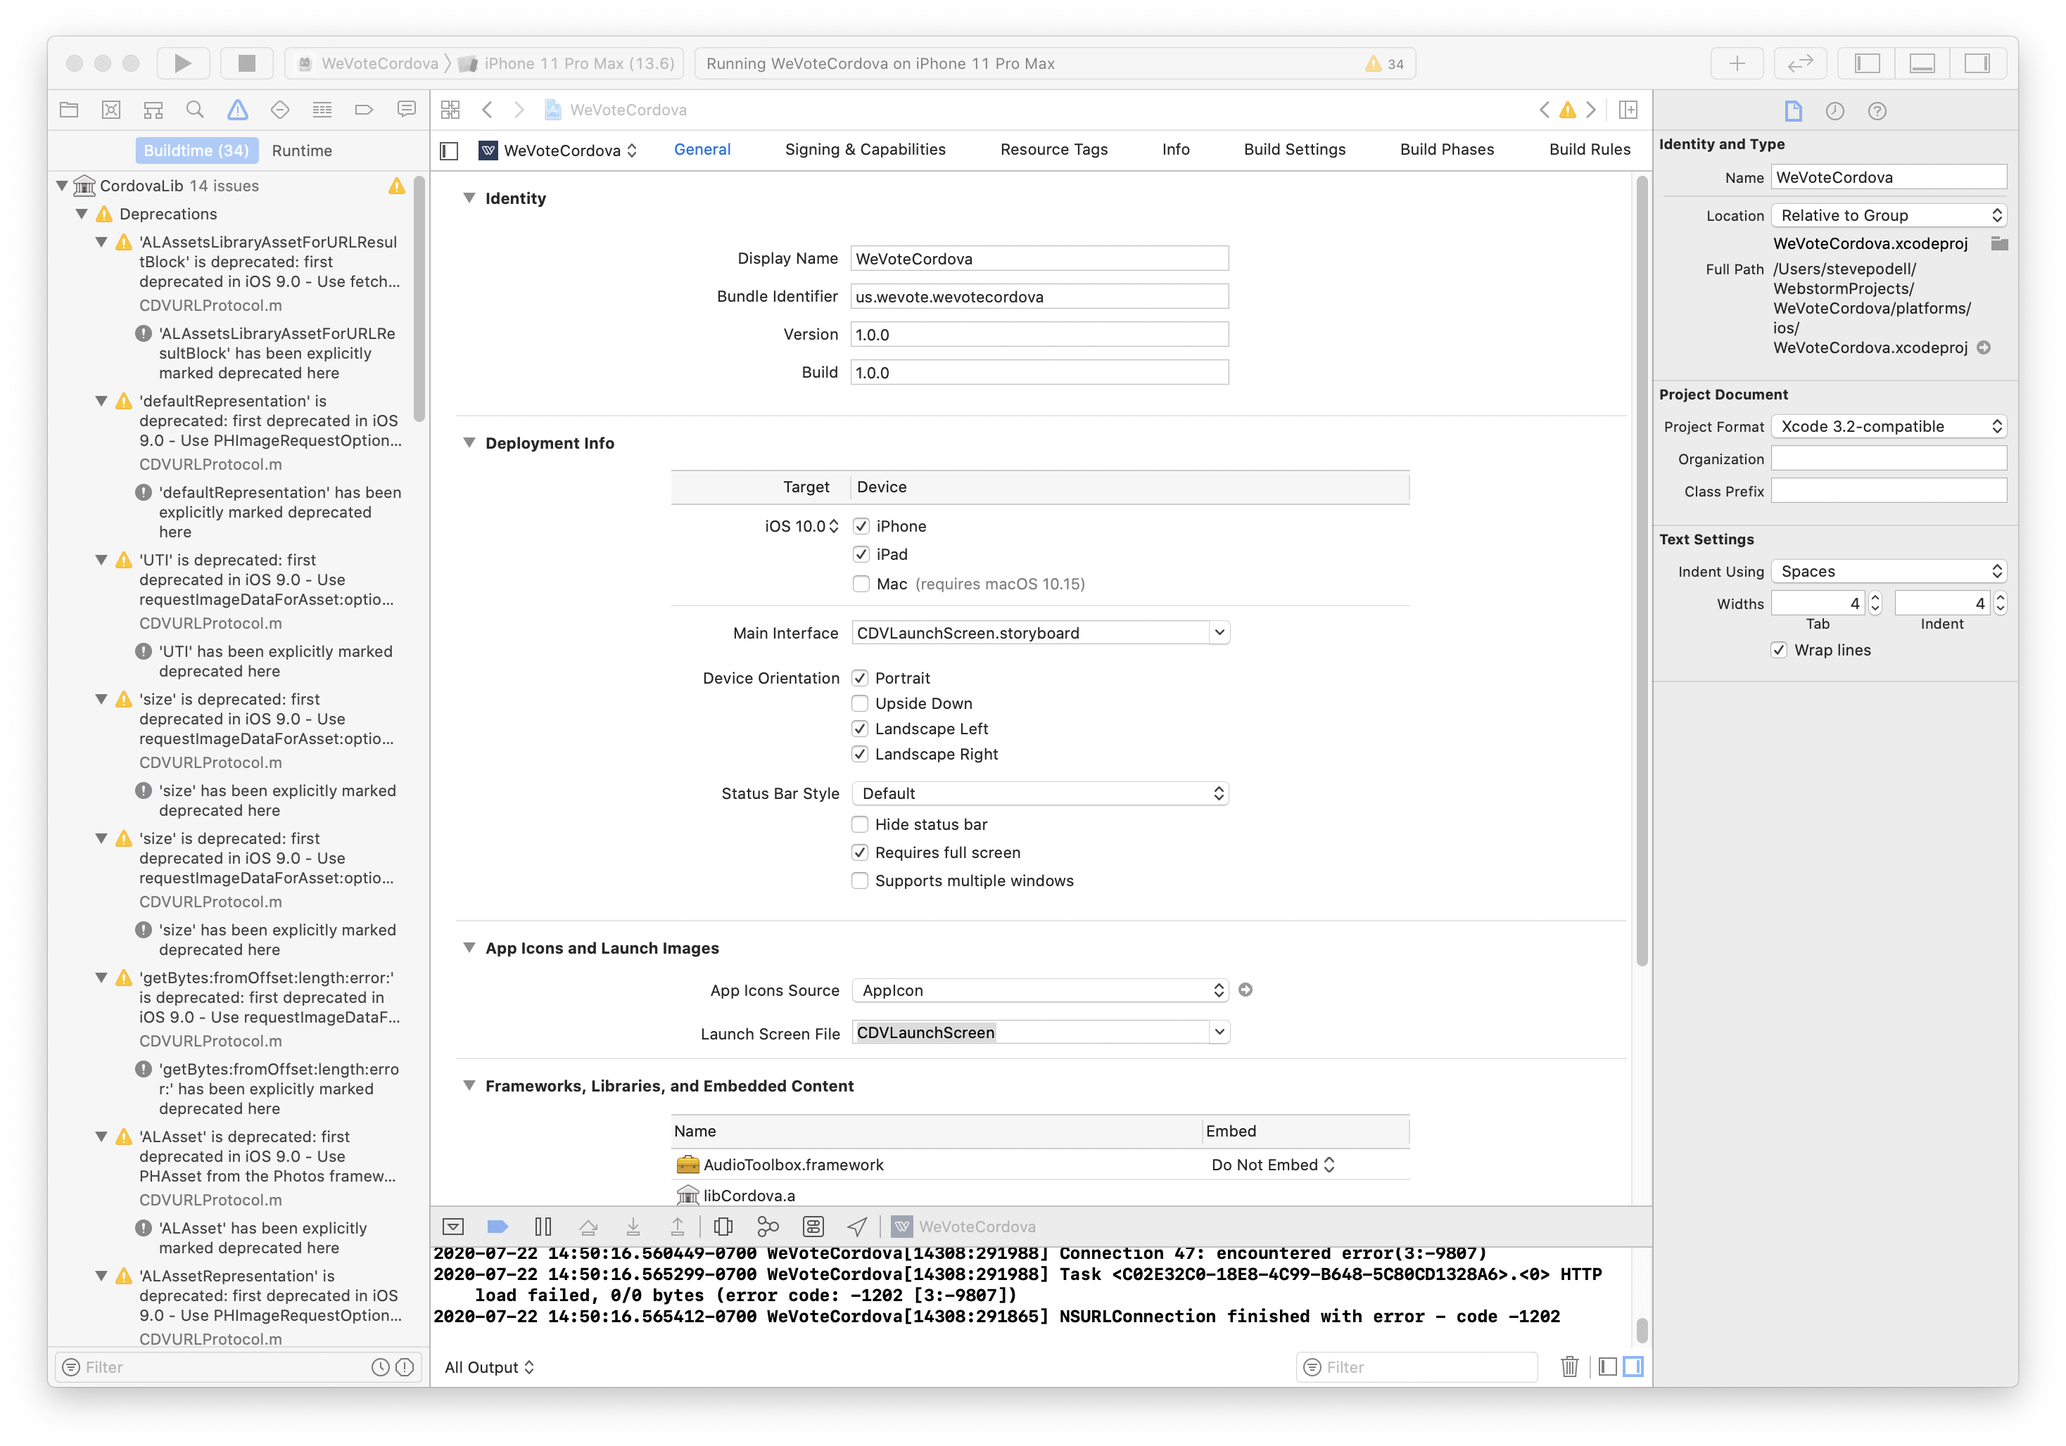
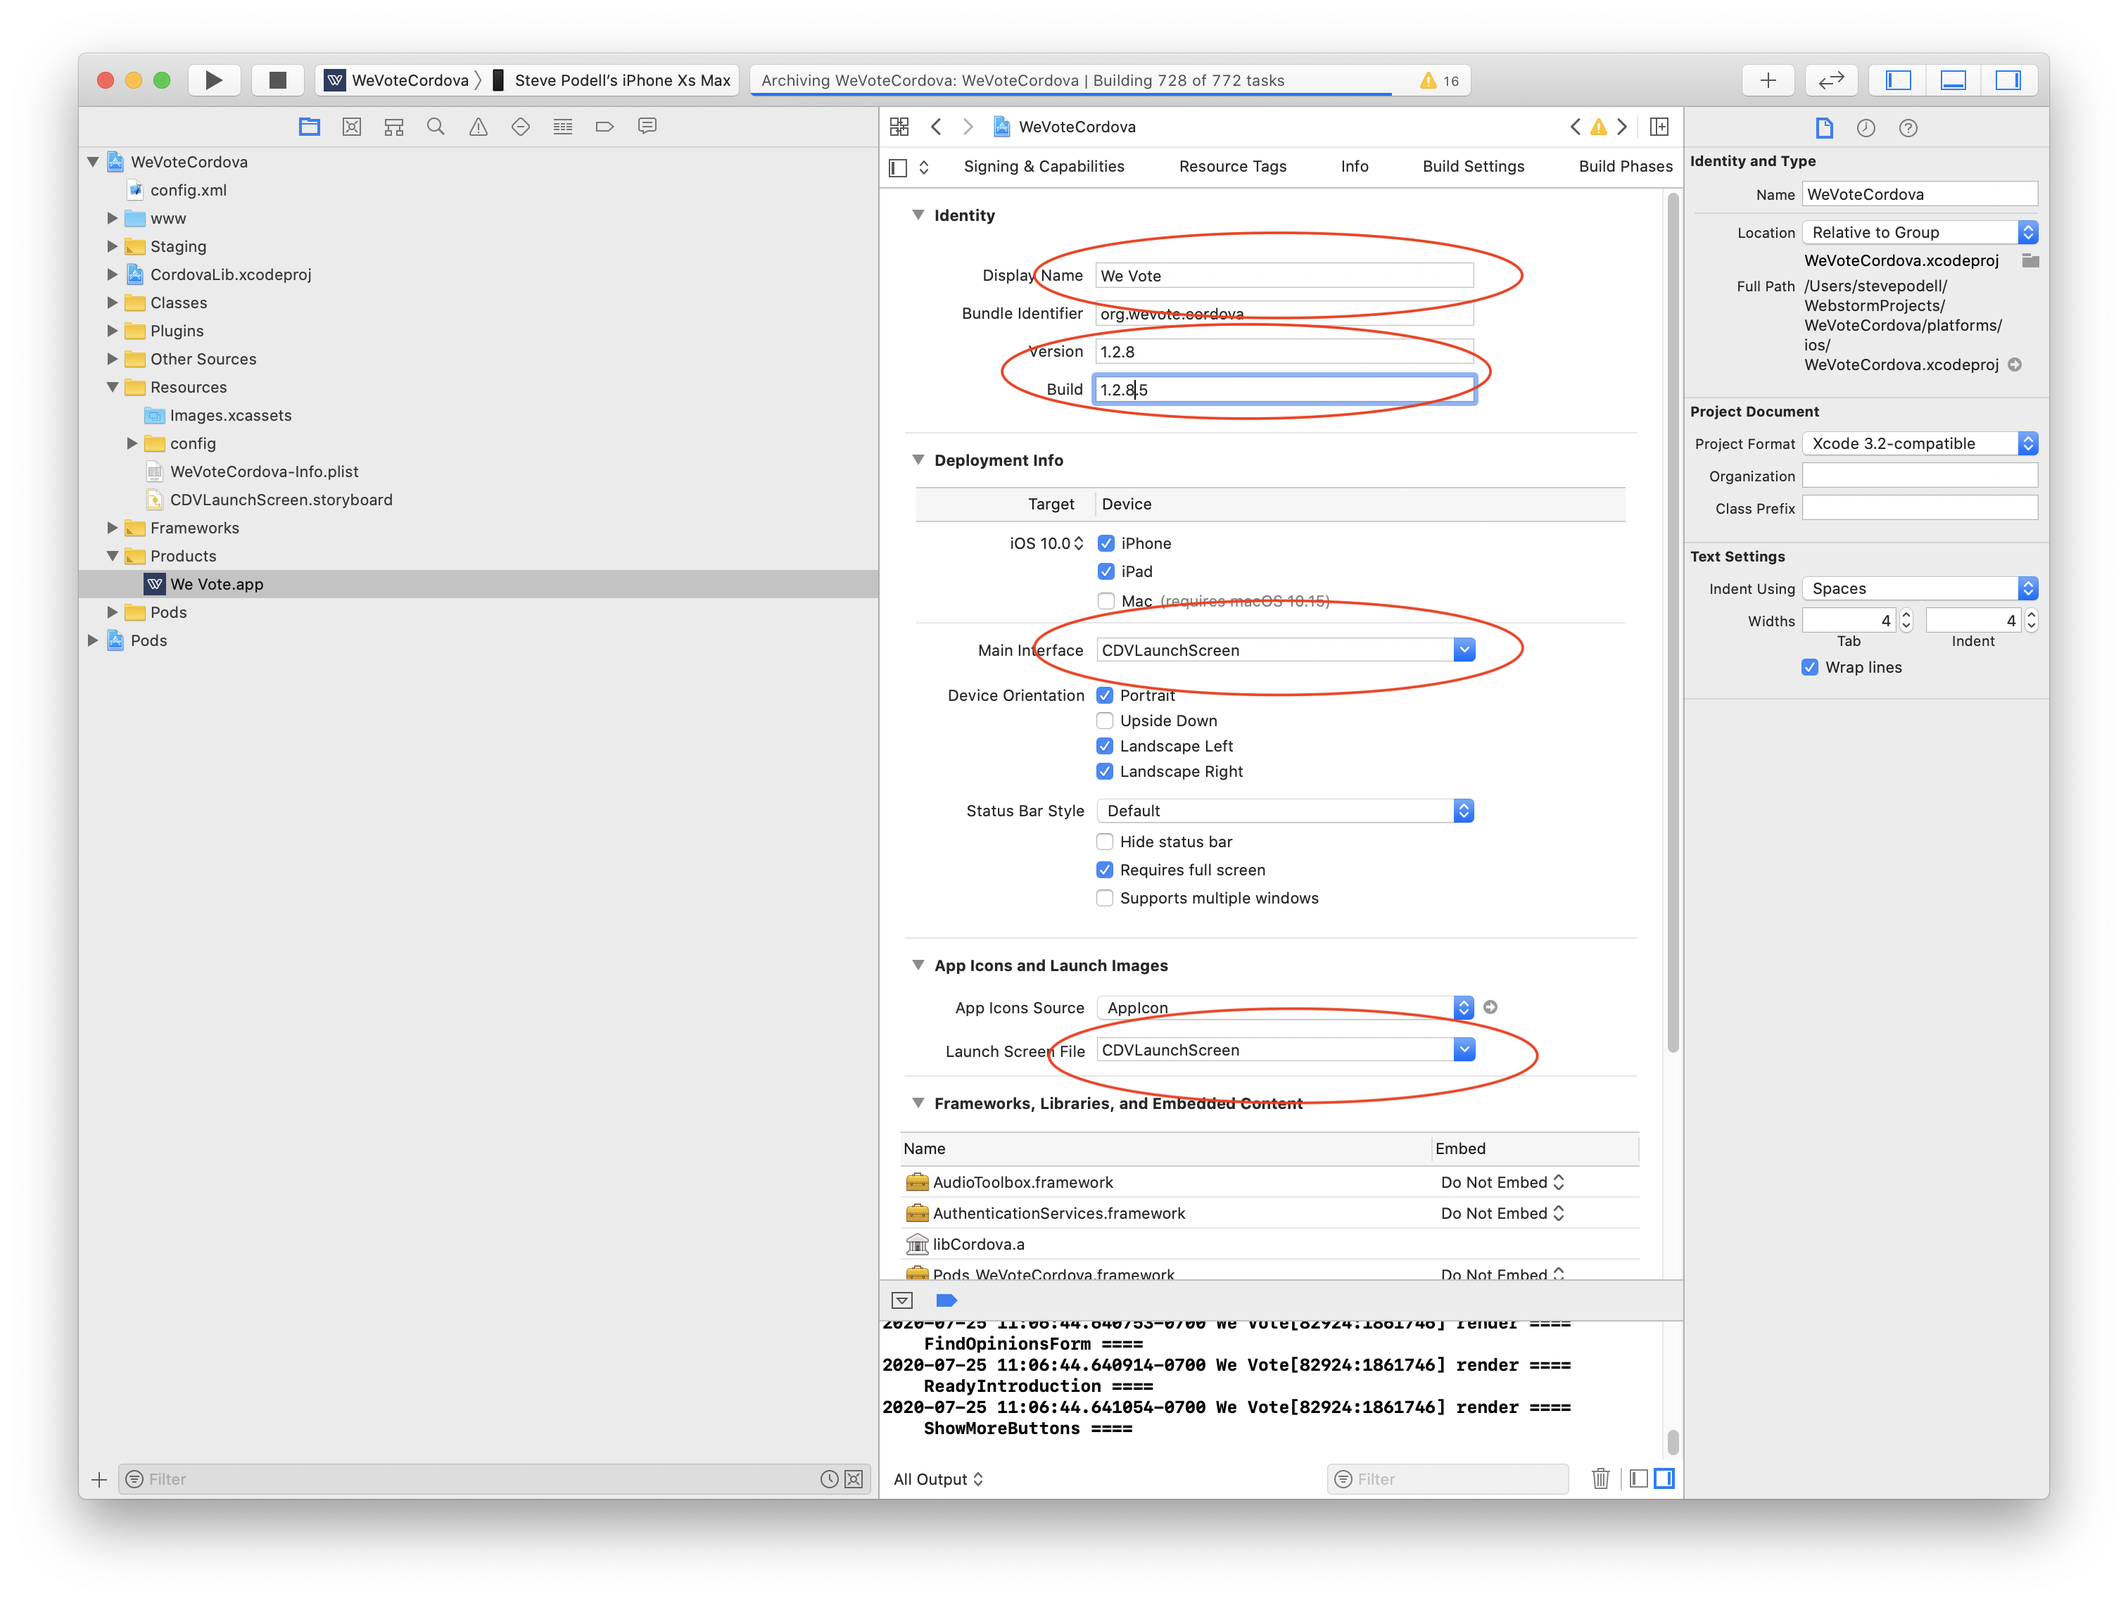
Removed the Cordova splashscreen in favor of the iOS LaunchScreen.storyboard Improved the git setup instructions in the README.md

diff --git a/www/index.html b/www/index.html
@@ -96,6 +96,12 @@
 <script type="text/javascript">
   try {
     console.log("INDEX.HTML Cordova from WeVoteCordova/src/index.html found jQuery $: ", $);
+    // Disabled July 2020
+    // if (window.location.href.includes('/android_asset/')) {
+    //   $.getScript("https://maps.googleapis.com/maps/api/js?key=AIzaSyBDdCfB2QtjafoVKMTPqDRRCHpFQE7tgoI&callback=initMap&libraries=places");
+    // } else {
+    //   $.getScript("https://maps.googleapis.com/maps/api/js?key=AIzaSyC2VUrtN0GlbRtAEjvNCQ922QznueInCJE&callback=initMap&libraries=places");
+    // }
   } catch (e) {
     console.log("ERROR: INDEX.HTML Cordova jQuery ERROR");
   }
@@ -103,7 +109,6 @@
 <script type="text/javascript" src="cordova.js"></script>
 <script type="text/javascript" src="bundle.js"></script>
 <!--<script type="text/javascript" src="js/index.js"></script>-->
-<script type="text/javascript" src="https://maps.googleapis.com/maps/api/js?key=AIzaSyCM0vM1mzh56OuA5IfgW_U6Qd9jD99WH6M&libraries=places"></script>
 <script type="text/javascript" src="https://cdnjs.cloudflare.com/ajax/libs/gsap/1.19.0/plugins/CSSPlugin.min.js"></script>
 <script type="text/javascript" src="https://cdnjs.cloudflare.com/ajax/libs/gsap/1.19.0/TweenLite.min.js"></script>
 <script type="text/javascript" src="https://cdnjs.cloudflare.com/ajax/libs/gsap/1.19.0/TimelineLite.min.js"></script>

diff --git a/README.md b/README.md
@@ -36,7 +36,7 @@ and get it to start up at least once, and then return here when you are done.
 If you can't find a file called `WebApp/build/bundle.js` on your machine, don't proceed
 until you can find it.
 
-Note July 2020:  It is **so much better** if you are using 13.x node.  The latest 14.x nodehas a minimum version
+Note July 2020:  It is **so much better** if you are using 13.x node.  The latest 14.x node has a minimum version
 dependency with node-sass, and there are other unpredictable issues that crop up that occasionally prevent
 the app from loading.
 
@@ -391,15 +391,21 @@ WebApp and to the WeVoteCordova.
     window.  For each LaunchStoryBoard image configuration, drop the `WeVoteCordova/res/screen/ios/June2020LaunchScreen.png` onto each.
     Yes, drop the same image 40 times into the different configurations.  XCode stores this setup in a binary file, so maybe we can do something
     fancier later, but this works well enough for now.
-    ![ScreenShot](docs/images/LaunchStoryboardConfig.png)
+    ![ScreenShot](docs/images/CDVLaunchScreenConfiguration.png)
 
 1. Configure the Cordova CDVLaunchScreen to use the LaunchStoryboard
 
     In Xcode, click on the WeVoteCordova path in the left pane, which displays the 'General' editor.
 
-    Under 'Deployment Info', 'Main Interface', select `CDVLaunchScreen.storyboard`
+    a) Under 'Identity', 'Display Name', change the name from `WeVoteCordova` to `We Vote`
 
-    Under 'App Icons and LaunchImages' click on the pulldown for 'Launch File Screen' and select the only option that is available:
+    b) Under 'Identity', 'Version' and 'Build, change the number for Version to the appropriate next release number, and Build must
+    be incremented and unique for every new Archive that is uploaded to Test Flight as a potential
+    release candidate. 
+
+    c) Under 'Deployment Info', 'Main Interface', select `CDVLaunchScreen.storyboard`
+
+    d) Under 'App Icons and LaunchImages' click on the pulldown for 'Launch File Screen' and select the only option that is available:
     `CDVLaunchScreen`.
 
     ![ScreenShot](docs/images/CDVLaunchScreenConfiguration.png)
@@ -410,6 +416,8 @@ WebApp and to the WeVoteCordova.
     when logging into Twitter.  This has to be manually configured in Xcode.  The scripted installation of the Cordova plugin
     for Facebook has already defined one custom scheme by this point, but we need to manually configure the scheme that is needed
     for Twitter.
+    
+    If the `wevotetwitterscheme` is already defined, even if under a different 'Item', then skip this step.
 
     In Xcode, select under Resources, the WeVoteCordova-info.plist, then under 'URL Types'/'Item 0'/'URL Schemes' you
     press the + button on 'Item 0' (the facebook oauth scheme) which opens an
@@ -561,34 +569,6 @@ WebApp and to the WeVoteCordova.
    drwxr-xr-x  12 stevepodell  staff    384 Jun 25 14:01 plugins
    stevepodell@Steves-MacBook-Pro-32GB-Oct-2109 WeVoteCordova %
    ```
-
-1.  You should test each one of those links, to make sure that they really point to where it needs to. It is much easier
-to test first, rather than making a setup mistake and having to diagnose the problem later on.  Use `stat -L` to confirm
-that the link points to a sizeable file (17856048 bytes in the case of bundle.js), if stat reports a file size of less than
-100 bytes, then the link is probably incorrect.  Use `ls` to make sure that the links for directories, contain a few files.
-
-    ```
-    Steves-MacBook-Pro-32GB-Oct-2018:www stevepodell$ pwd
[1 lines of base64/hex data omitted]
-    Steves-MacBook-Pro-32GB-Oct-2018:www stevepodell$ stat -L bundle.js
-    16777220 134276137 -rw-r--r-- 1 stevepodell staff 0 26625098 "Nov 11 14:33:16 2019" "Nov 10 16:50:44 2019" "Nov 11 14:11:21 2019" "Nov 10 16:50:43 2019" 4096 52008 0 bundle.js
-    Steves-MacBook-Pro-32GB-Oct-2018:www stevepodell$ ls css
-    bootstrap-social.css    loading-screen.css      main.css
-    Steves-MacBook-Pro-32GB-Oct-2018:www stevepodell$ ls img
-    endorsement-extension   endorsement-icon48.png  global                  how-it-works            sierra.pdf              tools                   welcome
-    Steves-MacBook-Pro-32GB-Oct-2018:www stevepodell$ head index.html
-    <!DOCTYPE html>
-    <!--
-        index.html for WeVoteCordova
-
-        NOTE NOTE NOTE
-           Due to the symlinks, this file will appear in multiple places in WeVoteCordova
-           The location of the source controlled version of this file is
-           WeVoteCordova/www/index.html
-
-    -->
-    Steves-MacBook-Pro-32GB-Oct-2018:www stevepodell$
-    ```
 
 **You are now done with the Android specific setup.**
 
@@ -751,7 +731,7 @@ start.
 
 ### Running Android Cordova for the first time
 
-1.  Download and install Android Studio
+1.  Download and install [Android Studio](https://developer.android.com/studio)
 
     Click "ok" to downloading and installing any jars or packages that the installer recommends.
 
@@ -782,6 +762,88 @@ start.
 
     You might see a warning: "**WARNING:** Configuration 'compile' is obsolete and has been replaced with 'implementation'
     and 'api'.", but it is safe to ignore
+    
+1.  If you get an error relating to accepting the Android SDK license
+
+    Run the sdkmanager and accept all the licenses (feel free to read them first)
+    ```
+    stevepodell@Steves-MacBook-Pro-32GB-Oct-2109 android % pwd
[1 lines of base64/hex data omitted]
+    stevepodell@Steves-MacBook-Pro-32GB-Oct-2109 android % cd /Users/stevepodell/Library/Android/sdk/tools/bin           
+    stevepodell@Steves-MacBook-Pro-32GB-Oct-2109 bin % ./sdkmanager --licenses
+    Warning: File /Users/stevepodell/.android/repositories.cfg could not be loaded. 
+    7 of 7 SDK package licenses not accepted. 100% Computing updates...             
+    Review licenses that have not been accepted (y/N)? y
+    ...
+    10.8 Open Source Software. In the event Open Source software is included with Evaluation Software, such Open Source software is licensed pursuant to the applicable Open Source software license agreement identified in the Open Source software comments in the applicable source code file(s) and/or file header as indicated in the Evaluation Software. Additional detail may be available (where applicable) in the accompanying on-line documentation. With respect to the Open Source software, nothing in this Agreement limits any rights under, or grants rights that supersede, the terms of any applicable Open Source software license agreement.
+    ---------------------------------------
+    Accept? (y/N): y
+    All SDK package licenses accepted
+    
+    stevepodell@Steves-MacBook-Pro-32GB-Oct-2109 bin % 
+    ```
+    Then run File/Sync Project with Gradle Files and you "should" see the following success message in the Sync status pane at the lower right corner of the IDE.
+    ```
+    KotlinDslScriptsParameter(correlationId=102692066094524, scriptFiles=[]) => StandardKotlinDslScriptsModel(scripts=[], commonModel=CommonKotlinDslScriptModel(classPath=[], sourcePath=[], implicitImports=[]), dehydratedScriptModels={}) - took 0.0 secs
+    Checking the license for package Android SDK Platform 28 in /Users/stevepodell/Library/Android/sdk/licenses
+    License for package Android SDK Platform 28 accepted.
+    Preparing "Install Android SDK Platform 28 (revision: 6)".
+    "Install Android SDK Platform 28 (revision: 6)" ready.
+    Installing Android SDK Platform 28 in /Users/stevepodell/Library/Android/sdk/platforms/android-28
+    "Install Android SDK Platform 28 (revision: 6)" complete.
+    "Install Android SDK Platform 28 (revision: 6)" finished.
+    
+    CONFIGURE SUCCESSFUL in 24s
+    ```
+    
+    <!--If you have trouble look at the [Cordova Android Platform Guide](https://cordova.apache.org/docs/en/latest/guide/platforms/android/)-->
+
+1. You will then need to download some simulator Virtual Devices to test with.  Go to Tools/AVD Manager
+    ![ScreenShot](docs/images/AndroidVirtualDeviceManager.png)
+    Download those that you can, some will have API versions that need to be increased to the minimum that is configured.  These simulators are huge
+    and contain most of the commercial boot image for the phone that you will be simulating.  
+    you probably will need to come back here later to add more, but at least get one
+    downloaded so you can do a test run in the Simulator.
+    
+1. Invalidate Caches are restart
+
+   Go to File/"Invalidate Caches / Restart" and choose the option to restart. 
+    
+1. Increase the minimum SDK version to what is recommended
+   
+   When I tried to run the app, I got the following output in the Build Output window     
+    ```
+    Manifest merger failed : uses-sdk:minSdkVersion 15 cannot be smaller than version 19 declared in library [:CordovaLib] /Users/stevepodell/WebstormProjects/WeVoteCordova/platforms/android/CordovaLib/build/intermediates/library_manifest/debug/AndroidManifest.xml as the library might be using APIs not available in 15
+    	Suggestion: use a compatible library with a minSdk of at most 15,
+    		or increase this project's minSdk version to at least 19,
+    		or use tools:overrideLibrary="org.apache.cordova" to force usage (may lead to runtime failures)
+    ```
+   
+   So in the IDE I did a global search for `minSdkVersion` (Click in the editor and press Command+Shift+F)
+   and replace the instance in android.json from 15 to 19 
+    ```
+   "xml": "<preference name=\"android-minSdkVersion\" value=\"15\" />",
+    ```
+    and replace the instance in config.xml from 15 to 19 
+    ```
+    <preference name="android-minSdkVersion" value="19" />
+    ```
+    The source controlled WeVoteCordova/config.xml as of July 30, 2020 has a minimum version
+    set of "19", so you may not need to do this.  At 'cordova platform add android', the root config.xml
+    is process and a `WeVoteCordova/platforms/android/app/src/main/res/xml/config.xml` is created on
+    the fly.
+    
+1. The gradle run that is automatically launched failed for me so I had to upgrade the [Android Gradle plugin](https://developer.android.com/studio/releases/gradle-plugin.html#revisions)
+
+   [Gradle](https://gradle.org/) is a build tool for Java, that serves the same purpose as Ant, or Make, or Webpack.
+   
+   Since the Gradle version that came with Android Studio was `6.1.1`, edited android/build.gradle to load version 4.00 instead of the version `3.0.0` that came
+   preinstalled.
+
+    ![ScreenShot](docs/images/UpgradeAndroidPlugin.png)
+    
+    After making that edit, simply click file/"Sync Project with Gradle Files" which forces a reload of the the Andorid Gradle plugin, and 
+    rebuilds the app.     
 
 1. Press the green "play" button to attempt to start running
 
@@ -867,18 +929,33 @@ to
 
     _activityView.center = CGPointMake(parentView.bounds.size.width / 2, parentView.bounds.size.height * 1 / 5 );
 
-### Authentication to Facebook and Twitter in the Simulators
+## WeVoteCordova/config.xml and WeVoteCordova/package.json background
 
-**Android:** Works fine!
+The Cordova project used to have all configuration for platforms, plugins installed, and plugin variables stored in their proprietary config.xml.  The `WeVoteCordova/config.xml` file is
+parsed at build time and rewritten to WeVoteCordova/platforms/ios/WeVoteCordova/config.xml and is used somewhere in Android.
 
-**iOS with Facebook:** Facebook auth usually does not work -- depending on complicated circumstances.  It is possible
-to test Facebook auth with a local build -- you can use your USB tethered physical device to load your
-latest bundle.js onto the phone, then unplug the phone, and run your test directly through the
-internet.
+In 2019 it appears that Cordova started using WeVoteCordova/package.json as the
+authoritative source of versions of the platform components and plugins
+that are used to build the app.  For pulling in libraries (plugins, platforms and Cordova core compoents)Cordova first looks in packages.json, then in config.xml, and
+finally it will load plugins that are not configured, but are present in the
+plugins directories:  `WeVoteCordova/platforms/ios/WeVoteCordova/Plugins `and `WeVoteCordova/platforms/android/app/src/main/assets/www/plugins` and 
+`WeVoteCordova/Plugins`
+ 
+ The safest way to remove a plugin is, for example `cordova plugin remove cordova-plugin-foo` which adjusts all the
+ configuration files, and physically removes the plugin code.   `cordova plugin add cordova-plugin-foo --save` will add it back in,
+ and might add the configuration for the plugin version in `WeVoteCordova/config.xml`.  If it doesn't you
+ can add it into the `WeVoteCordova/config.xml` manually, or just not worry about it and have
+ the code version picked up from `package.json`
 
-**iOS with Twitter:** It is usable, but not very elegant.  There is a QuickTime movie in this repository that shows the
-login steps (`docs/images/TwitterSignIn4.mov`) -- you can play it on your Mac.  Another note: if you click "Sign in with Twitter"
-and get a blank redirect screen, close it and try again.  It seems to always work on the second try.
+Running ...
+ 
+    cordova platform remove ios android
+    cordova platform add ios android
+  
+will remove everything from the platforms directory, and rebuild all the config files in the platforms directory, but will
+also remove all the manual configuration and symlinks that you add.  This is a powerful last resort if all else is going wrong.
+
+
 
 ----------
 ## Other documentation pages:
@@ -901,4 +978,6 @@ cordova plugin add https://github.com/EddyVerbruggen/Custom-URL-scheme.git --var
 // nono cordova plugin add cordova-plugin-wkwebview-engine --save
 // NONO cordova plugin add cordova-plugin-wkwebview-file-xhr --save
 cordova platform add ios@6.1.0 android@9.0.0
+cordova plugin add cordova-plugin-inappbrowser --save
+cordova plugin add cordova-plugin-splashscreen --save
 -->
